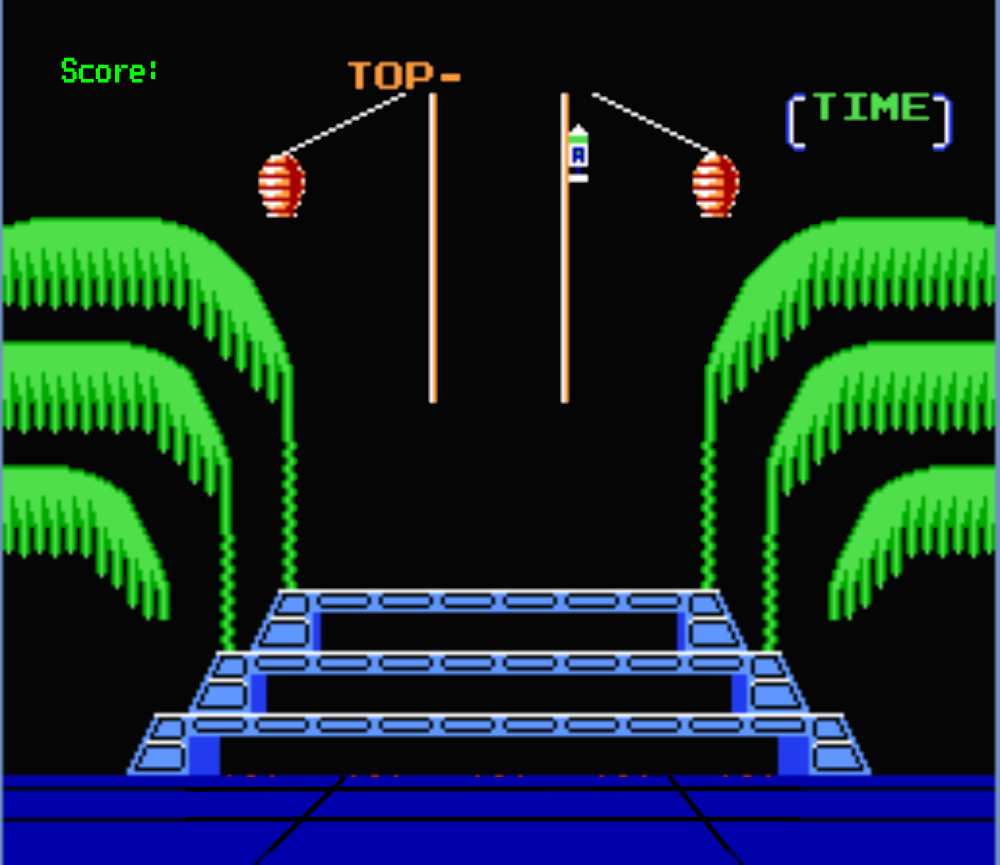
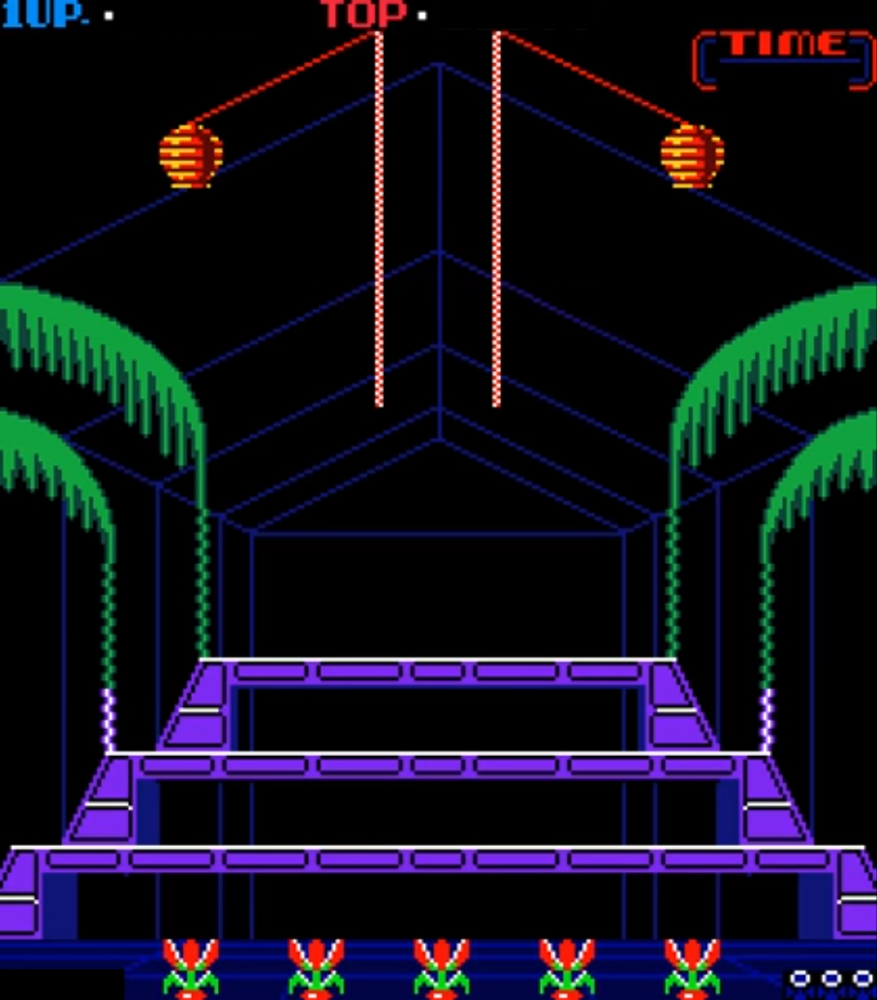
1

diff --git a/DonkeyKong3.java b/DonkeyKong3.java
@@ -12,23 +12,23 @@ public class DonkeyKong3 extends JPanel implements ActionListener, KeyListener {
     private int currentScore = 0;
     private int lives;
     private int level;
-    private int windowWidth = 1000;
-    private int windowHeight = 865;
+    private int windowWidth = 899;
+    private int windowHeight = 1020;
     private boolean up, down, left, right;
     private int fps = 60;
     private int currentAnim = 0;
     private int aiLevel;
-    private int bonusTime = 700;
+    private int bonusTime = 8000;
+
+    private Mario mario = new Mario();
+    private DK dk = new DK(aiLevel);
 
     int playerX = 700;
     int playerY = 700;
     int perPixel = 4;
 
-    private Mario mario = new Mario();
-    private DK dk = new DK();
-
     public DonkeyKong3() {
-        this(0, 0, 3, 0);
+        this(0, 0, 3, 1);
     }
 
     public DonkeyKong3(int score, int level, int lives, int aiLevel) {
@@ -86,7 +86,8 @@ public class DonkeyKong3 extends JPanel implements ActionListener, KeyListener {
                 if (bonusTime <= 0)
                     death();
                 else {
-                    bonusTime -= 10;
+                    dk.move();
+                    bonusTime -= 100;
                     drawCount = 0;
                     timer = 0;
                 }
@@ -145,7 +146,7 @@ public class DonkeyKong3 extends JPanel implements ActionListener, KeyListener {
 
         // Draw Level
 
-        g2.drawImage(tool.getImage("dk3_level_" + level + ".png"), 0, 0, 1000, 850, this);
+        g2.drawImage(tool.getImage("dk3_level_" + level + ".png"), 0, 0, 899, 982, this);
 
         // Draw Mario
 
@@ -153,14 +154,14 @@ public class DonkeyKong3 extends JPanel implements ActionListener, KeyListener {
 
         // Draw Donkey Kong
 
-        g2.drawImage(tool.getImage("sprites/dk/1.png"), dk.getPosX(), dk.getPosY(), 55, 65, this);
+        g2.drawImage(tool.getImage("sprites/dk/" + dk.getAnim() + ".png"), dk.getPosX(), dk.getPosY(), dk.getSizeX(), dk.getSizeY(), this);
 
         // Score Display
         g2.setColor(Color.orange);
-        g2.setFont(new Font("TimesRoman", Font.PLAIN, 24)); 
-        g2.drawString(Integer.toString(currentScore), 165, 79);
-        g2.drawString(Integer.toString(bonusTime), 845, 140);
-        g2.drawString(Integer.toString(highScores), 470, 85);
+        g2.setFont(new Font("Monospace", Font.PLAIN, 40)); 
+        g2.drawString(Integer.toString(currentScore), 125, 30);
+        g2.drawString(Integer.toString(highScores), 450, 30);
+        g2.drawString(Integer.toString(bonusTime),  760, 100);
 
         // // Movement of Mario
         // mario.move(perPixel, up, down, left, right);
@@ -173,6 +174,10 @@ public class DonkeyKong3 extends JPanel implements ActionListener, KeyListener {
     public void death() {
         lives--;
         mario.death();
+    }
+
+    public int getLevel() {
+        return level;
     }
 
     // Movement Booleans

diff --git a/Mario.java b/Mario.java
@@ -1,30 +1,27 @@
 public class Mario {
-    public int posX, posY;
-    public int perPixel = 0;
-    public int playerX = 150;
-    public int playerY = 100;
+    public int playerX = 700;
+    public int playerY = 700;
+    public int perPixel = 4;
     public int totalPlayerY = 0;
-    
-    public void move(double speed, boolean up, boolean down, boolean left, boolean right) {
-      if(left && !right){
-        if(speed > (0 - perPixel)) speed -= 1;
-      }
-      else if(right && !left){
-        if(speed < perPixel) speed += 1;
-      }
-      else {
-          if (speed > 0) speed -= 0.5;
-          else if (speed < perPixel) speed += 0.5;
-      }
-    }
-
-    public void pos(){
-        playerX += perPixel;
-        if(playerY > totalPlayerY)
-            totalPlayerY = playerY;
-    }
 
     public void death() {
         
     }
+
+    public void updatePosX() {
+      
+    }
+
+    public int getPosX() {
+      return playerX;
+    }
+
+    public int getPosY() {
+      return playerY;
+    }
+
+    public int getPerPixel() {
+      return perPixel;
+    }
+
 }

diff --git a/DK.java b/DK.java
@@ -1,11 +1,30 @@
-public class DK extends DonkeyKong3 {
+public class DK extends Mario {
 
-    private int posX = 50;
-    private int posY = 70;
+    private int posX;
+    private int posY;
+    private int sizeX = 210;
+    private int sizeY = 150;
+    private int anim = 5;
+    private int aiLevel;
 
-    public DK() {
-        posX = 50;
-        posY = 70;
+    public DK(int aiLevel) {
+        this.aiLevel = aiLevel;
+        //if (getLevel() == 0) {
+            posX = 348;
+            posY = 270;
+        //}
+    }
+
+    public void move() {
+        posY += aiLevel;
+        if(anim < 7)
+            anim++;
+        else
+            anim = 5;
+    }
+
+    public int getAnim() {
+        return anim;
     }
 
     public int getPosX() {
@@ -13,5 +32,11 @@ public class DK extends DonkeyKong3 {
     }
     public int getPosY() {
         return posY;
+    }
+    public int getSizeX() {
+        return sizeX;
+    }
+    public int getSizeY() {
+        return sizeY;
     }
 }
